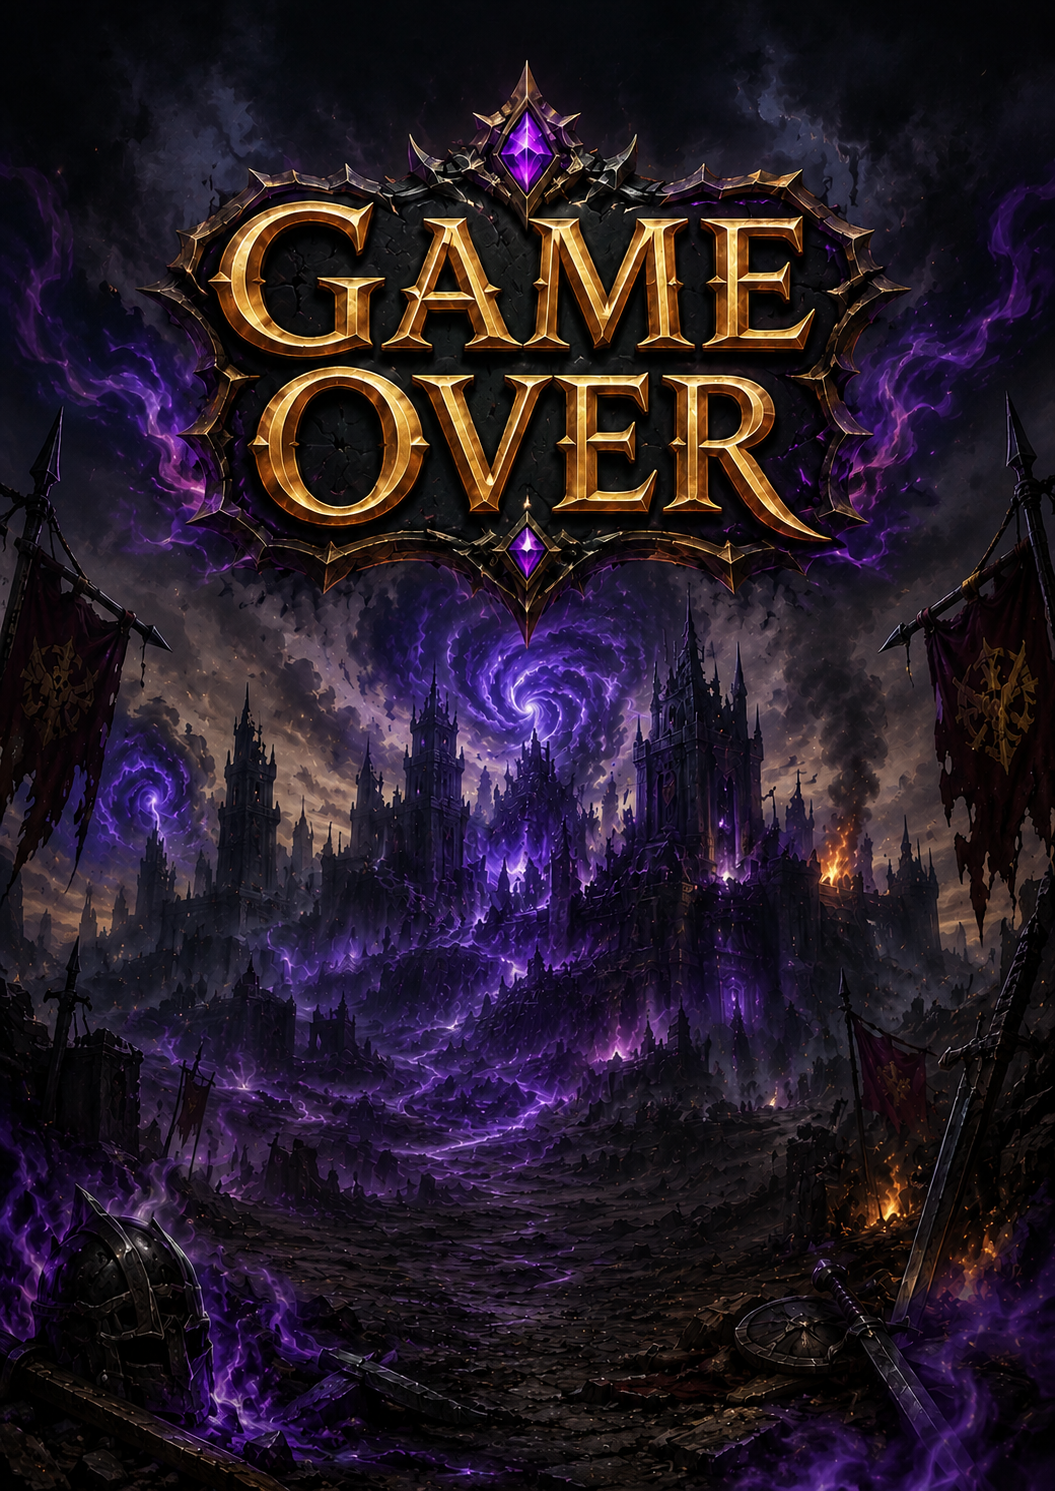
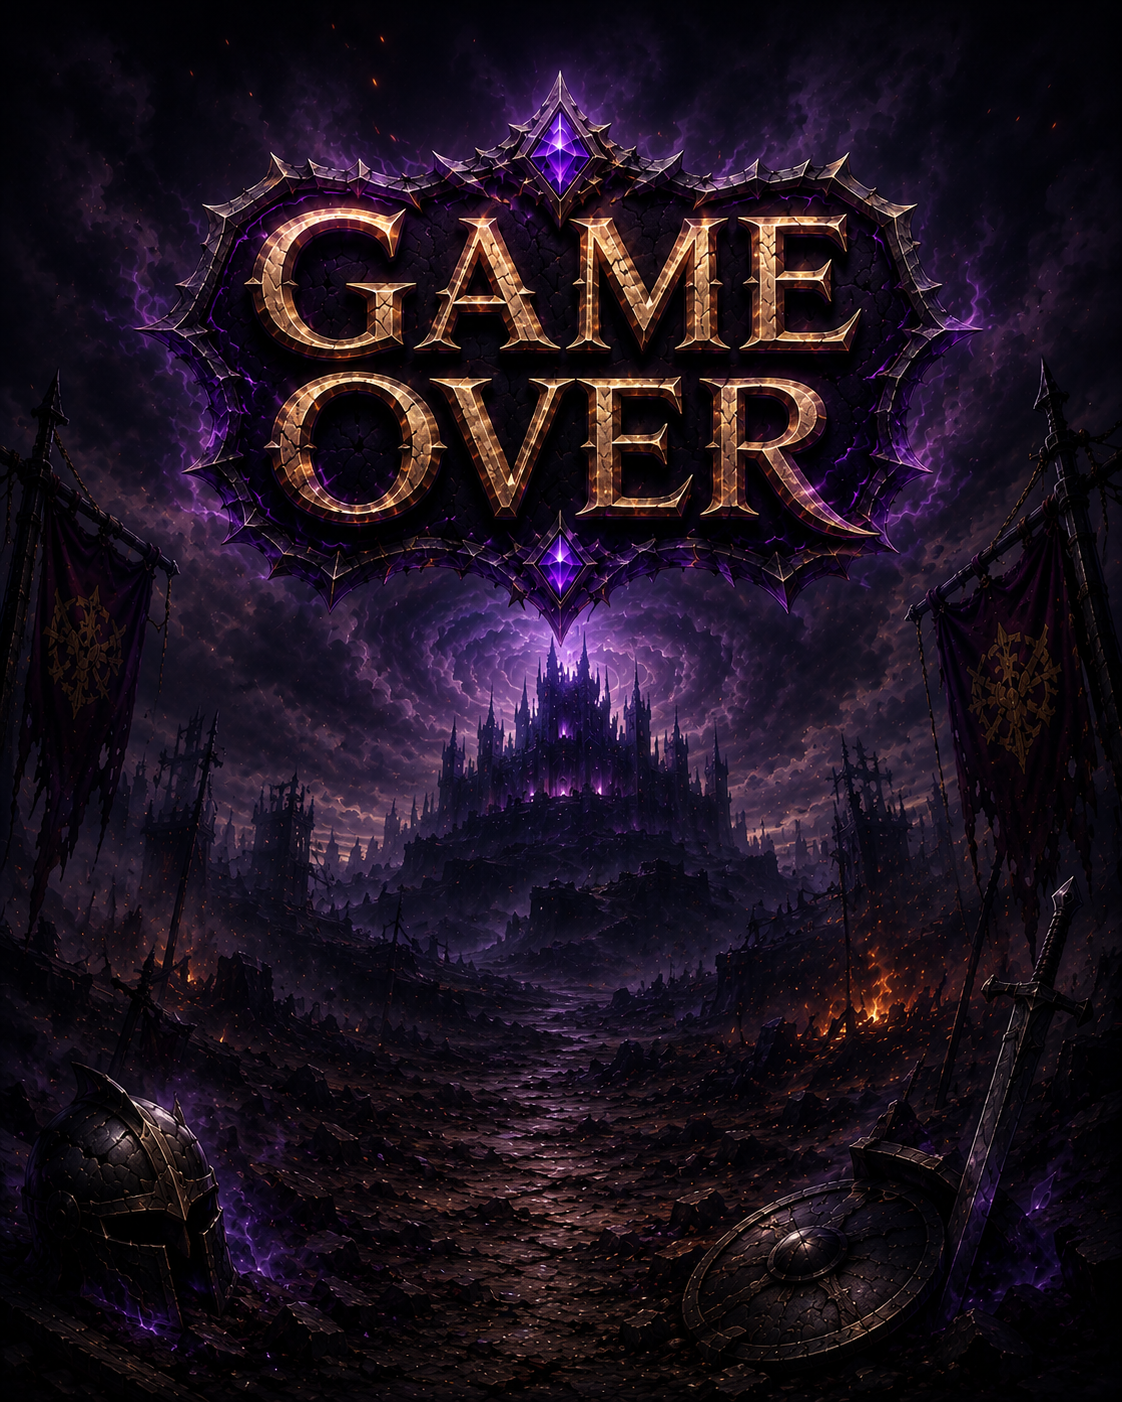
change bgr game over

diff --git a/src/scenes/GameOver.java b/src/scenes/GameOver.java
@@ -38,11 +38,11 @@ private AudioPlayer audioPlayer;
 
  private void initButtons() {
     int w = 300;
-    int h = 175;
+    int h = 145;
     int x = 640 / 2 - w / 2;
 
-    bMenu = new MyButton("Menu", x, 400, w, h);
-    bReplay = new MyButton("Replay", x, 530, w, h);
+    bMenu = new MyButton("Menu", x, 430, w, h);
+    bReplay = new MyButton("Replay", x, 550, w, h);
 }
 
 @Override
